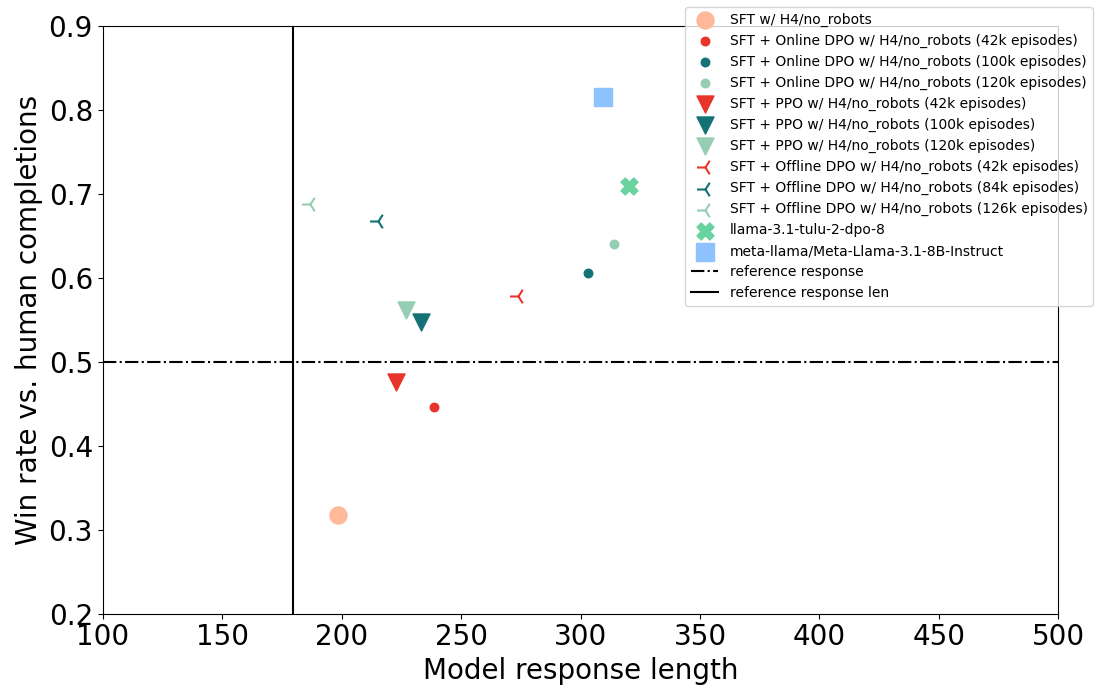
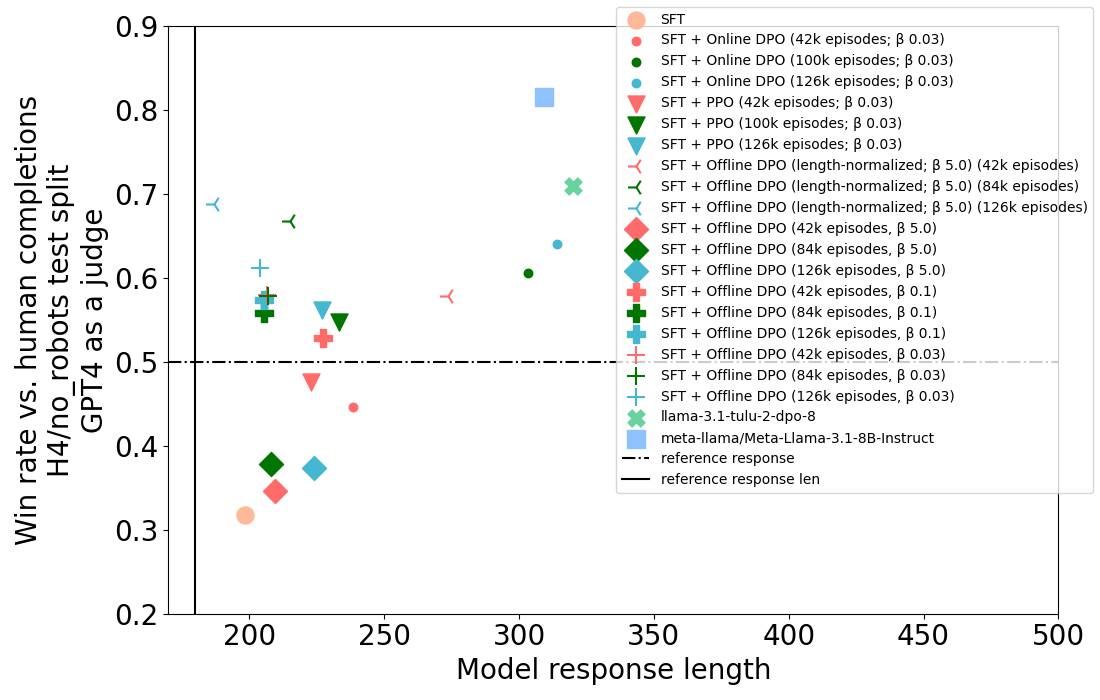
push changes

diff --git a/scripts/experimental/winrate/plot_winrate.py b/scripts/experimental/winrate/plot_winrate.py
@@ -13,16 +13,25 @@ class Data:
 
 # Data
 results = {
-    "SFT w/ H4/no_robots": Data({8e9: [0.318, 198.402]}, "#FFB898", "o"),
-    "SFT + Online DPO w/ H4/no_robots (42k episodes)": Data({8e9: [0.446, 238.528]}, "#E8352C", "."),
-    "SFT + Online DPO w/ H4/no_robots (100k episodes)": Data({8e9: [0.606, 303.176]}, "#147277", "."),
-    "SFT + Online DPO w/ H4/no_robots (120k episodes)": Data({8e9: [0.64, 314.074]}, "#96ceb4", "."),
-    "SFT + PPO w/ H4/no_robots (42k episodes)": Data({8e9: [0.476, 222.886]}, "#E8352C", "v"),
-    "SFT + PPO w/ H4/no_robots (100k episodes)": Data({8e9: [0.548, 233.058]}, "#147277", "v"),
-    "SFT + PPO w/ H4/no_robots (120k episodes)": Data({8e9: [0.562, 226.956]}, "#96ceb4", "v"),
-    "SFT + Offline DPO w/ H4/no_robots (42k episodes)": Data({8e9: [0.578, 273.732]}, "#E8352C", "3"),
-    "SFT + Offline DPO w/ H4/no_robots (84k episodes)": Data({8e9: [0.668, 215.136]}, "#147277", "3"),
-    "SFT + Offline DPO w/ H4/no_robots (126k episodes)": Data({8e9: [0.688, 186.848]}, "#96ceb4", "3"),
+    "SFT": Data({8e9: [0.318, 198.402]}, "#FFB898", "o"),
+    "SFT + Online DPO (42k episodes; β 0.03)": Data({8e9: [0.446, 238.528]}, "#FF6B6B", "."),
+    "SFT + Online DPO (100k episodes; β 0.03)": Data({8e9: [0.606, 303.176]}, "#007500", "."),
+    "SFT + Online DPO (126k episodes; β 0.03)": Data({8e9: [0.64, 314.074]}, "#45B7D1", "."),
+    "SFT + PPO (42k episodes; β 0.03)": Data({8e9: [0.476, 222.886]}, "#FF6B6B", "v"),
+    "SFT + PPO (100k episodes; β 0.03)": Data({8e9: [0.548, 233.058]}, "#007500", "v"),
+    "SFT + PPO (126k episodes; β 0.03)": Data({8e9: [0.562, 226.956]}, "#45B7D1", "v"),
+    "SFT + Offline DPO (length-normalized; β 5.0) (42k episodes)": Data({8e9: [0.578, 273.732]}, "#FF6B6B", "3"),
+    "SFT + Offline DPO (length-normalized; β 5.0) (84k episodes)": Data({8e9: [0.668, 215.136]}, "#007500", "3"),
+    "SFT + Offline DPO (length-normalized; β 5.0) (126k episodes)": Data({8e9: [0.688, 186.848]}, "#45B7D1", "3"),
+    "SFT + Offline DPO (42k episodes, β 5.0)": Data({8e9: [0.346, 209.43]}, "#FF6B6B", "D"),
+    "SFT + Offline DPO (84k episodes, β 5.0)": Data({8e9: [0.378, 208.1]}, "#007500", "D"),
+    "SFT + Offline DPO (126k episodes, β 5.0)": Data({8e9: [0.374, 223.876]}, "#45B7D1", "D"),
+    "SFT + Offline DPO (42k episodes, β 0.1)": Data({8e9: [0.528, 227.462]}, "#FF6B6B", "P"),
+    "SFT + Offline DPO (84k episodes, β 0.1)": Data({8e9: [0.558, 205.354]}, "#007500", "P"),
+    "SFT + Offline DPO (126k episodes, β 0.1)": Data({8e9: [0.574, 205.498]}, "#45B7D1", "P"),
+    "SFT + Offline DPO (42k episodes, β 0.03)": Data({8e9: [0.58, 206.512]}, "#FF6B6B", "+"),
+    "SFT + Offline DPO (84k episodes, β 0.03)": Data({8e9: [0.578, 207.07]}, "#007500", "+"),
+    "SFT + Offline DPO (126k episodes, β 0.03)": Data({8e9: [0.612, 204.078]}, "#45B7D1", "+"),
     "llama-3.1-tulu-2-dpo-8": Data({8e9: [0.71, 320.09]}, "#68D39F", "X"),
     "meta-llama/Meta-Llama-3.1-8B-Instruct": Data({8e9: [0.816, 309.322]}, "#8EC2FF", "s"),
 }
@@ -89,11 +98,11 @@ def create_winrate_vs_length_plot(filename):
     ax.set_xlabel("Model response length", fontsize=20)
     plt.axhline(y=0.5, color='black', linestyle='-.', label='reference response')
     plt.axvline(x=179.726, color='black', linestyle='-', label='reference response len')
-    ax.set_ylabel("Win rate vs. human completions", fontsize=20)
+    ax.set_ylabel("Win rate vs. human completions\nH4/no_robots test split\nGPT4 as a judge", fontsize=20)
     ax.tick_params(axis='both', which='major', labelsize=20)
 
     # Set reasonable axis limits
-    ax.set_xlim(100, 500)
+    ax.set_xlim(170, 500)
     ax.set_ylim(0.2, 0.9)
 
     # Adjust legend

diff --git a/scripts/experimental/winrate/plot_agreement_rate.py b/scripts/experimental/winrate/plot_agreement_rate.py
@@ -1,0 +1,47 @@
+import matplotlib.pyplot as plt
+import numpy as np
+
+# Data
+methods = [
+    'SFT + Offline DPO (length-normalized) (126k episodes)',
+    'SFT + Online DPO (126k episodes)',
+    'SFT + PPO (126k episodes)',
+]
+rm1_rates = [45.20, 56.20, 59.60]  # vwxyzjn/reward_modeling__allenai_open_instruct_dev
+rm2_rates = [61.20, 64.00, 63.40]  # allenai/llama-3-tulu-2-8b-uf-mean-rm
+
+x = np.arange(len(methods))  # the label locations
+width = 0.35  # the width of the bars
+
+fig, ax = plt.subplots(figsize=(12, 6))
+rects1 = ax.bar(x - width/2, rm1_rates, width, label='vwxyzjn/reward_modeling__allenai_open_instruct_dev', color='skyblue')
+rects2 = ax.bar(x + width/2, rm2_rates, width, label='allenai/llama-3-tulu-2-8b-uf-mean-rm', color='lightgreen')
+
+# Add some text for labels, title and custom x-axis tick labels, etc.
+ax.set_ylabel('Agreement Rate (%)', fontsize=12)
+ax.set_title('Agreement Rates w/ GPT 4 judgement for Different Reward Models and Training Methods', fontsize=14)
+ax.set_xticks(x)
+ax.set_xticklabels(methods)
+ax.legend()
+
+ax.set_ylim(0, 100)  # Set y-axis limit from 0 to 100%
+
+# Add value labels on top of each bar
+def autolabel(rects):
+    for rect in rects:
+        height = rect.get_height()
+        ax.annotate(f'{height:.2f}%',
+                    xy=(rect.get_x() + rect.get_width() / 2, height),
+                    xytext=(0, 3),  # 3 points vertical offset
+                    textcoords="offset points",
+                    ha='center', va='bottom')
+
+autolabel(rects1)
+autolabel(rects2)
+
+fig.tight_layout()
+
+plt.savefig('agreement_rates_comparison.png')
+plt.close()
+
+print("Plot saved as 'agreement_rates_comparison.png'")

diff --git a/scripts/experimental/winrate/readme.md b/scripts/experimental/winrate/readme.md
@@ -145,6 +145,107 @@ python -i generate_and_eval.py \
 # df['model_response_len'].mean()=186.848
 
 
+# https://wandb.ai/ai2-llm/open_instruct_internal/runs/9boxjt9g
+python -i generate_and_eval.py \
+    --model_name_or_path allenai/open_instruct_dev \
+    --model_revision costa_offline_dpo_norobot_3pair_1peoch_dpo__allenai_open_instruct_dev__42__1726598473 \
+    --n 500
+# preferred
+# response1    0.654
+# response0    0.346
+# Name: proportion, dtype: float64
+# df['model_response_len'].mean()=209.43
+
+# https://wandb.ai/ai2-llm/open_instruct_internal/runs/l3sx2vy3
+python -i generate_and_eval.py \
+    --model_name_or_path allenai/open_instruct_dev \
+    --model_revision costa_offline_dpo_norobot_3pair_2peoch_dpo__allenai_open_instruct_dev__42__1726598454 \
+    --n 500
+# preferred
+# response1    0.622
+# response0    0.378
+# Name: proportion, dtype: float64
+# df['model_response_len'].mean()=208.1
+
+# https://wandb.ai/ai2-llm/open_instruct_internal/runs/scc7ic9o
+python -i generate_and_eval.py \
+    --model_name_or_path allenai/open_instruct_dev \
+    --model_revision costa_offline_dpo_norobot_3pair_3peoch_dpo__allenai_open_instruct_dev__42__1726598454 \
+    --n 500
+# preferred
+# response1    0.626
+# response0    0.374
+# Name: proportion, dtype: float64
+# df['model_response_len'].mean()=223.876
+
+## beta 0.1
+# https://wandb.ai/ai2-llm/open_instruct_internal/runs/5ro3trre
+python generate_and_eval.py \
+    --model_name_or_path allenai/open_instruct_dev \
+    --model_revision costa_offline_dpo_norobot_3pair_1peoch_dpo_beta_0.1__allenai_open_instruct_dev__42__1726616746 \
+    --n 500
+# preferred
+# response0    0.528
+# response1    0.472
+# Name: proportion, dtype: float64
+# df['model_response_len'].mean()=227.462
+
+# https://wandb.ai/ai2-llm/open_instruct_internal/runs/jjudzmie
+python generate_and_eval.py \
+    --model_name_or_path allenai/open_instruct_dev \
+    --model_revision costa_offline_dpo_norobot_3pair_2peoch_dpo_beta_0.1__allenai_open_instruct_dev__42__1726624662 \
+    --n 500
+# preferred
+# response0    0.558
+# response1    0.442
+# Name: proportion, dtype: float64
+# df['model_response_len'].mean()=205.354
+
+# https://wandb.ai/ai2-llm/open_instruct_internal/runs/p1g5p9f1
+python generate_and_eval.py \
+    --model_name_or_path allenai/open_instruct_dev \
+    --model_revision costa_offline_dpo_norobot_3pair_3peoch_dpo_beta_0.1__allenai_open_instruct_dev__42__1726616662 \
+    --n 500
+# preferred
+# response0    0.574
+# response1    0.426
+# Name: proportion, dtype: float64
+# df['model_response_len'].mean()=205.498
+
+## beta 0.03
+# https://wandb.ai/ai2-llm/open_instruct_internal/runs/8hmgusle
+python generate_and_eval.py \
+    --model_name_or_path allenai/open_instruct_dev \
+    --model_revision costa_offline_dpo_norobot_3pair_1peoch_dpo_beta_0.03__allenai_open_instruct_dev__42__1726616748 \
+    --n 500
+# preferred
+# response0    0.58
+# response1    0.42
+# Name: proportion, dtype: float64
+# df['model_response_len'].mean()=206.512
+
+# https://wandb.ai/ai2-llm/open_instruct_internal/runs/i3a3oodn
+python generate_and_eval.py \
+    --model_name_or_path allenai/open_instruct_dev \
+    --model_revision costa_offline_dpo_norobot_3pair_2peoch_dpo_beta_0.03__allenai_open_instruct_dev__42__1726616747 \
+    --n 500
+# preferred
+# response0    0.578
+# response1    0.422
+# Name: proportion, dtype: float64
+# df['model_response_len'].mean()=207.07
+
+# https://wandb.ai/ai2-llm/open_instruct_internal/runs/r50e84fb
+python generate_and_eval.py \
+    --model_name_or_path allenai/open_instruct_dev \
+    --model_revision costa_offline_dpo_norobot_3pair_3peoch_dpo_beta_0.03__allenai_open_instruct_dev__42__1726624622 \
+    --n 500
+# preferred
+# response0    0.612
+# response1    0.388
+# Name: proportion, dtype: float64
+# df['model_response_len'].mean()=204.078
+
 python plot_winrate.py
 
 
@@ -202,4 +303,16 @@ python measure_agreement_rate.py \
     --input_path csvs/allenai/open_instruct_dev_costa_offline_dpo_norobot_3pair_3peoch__allenai_open_instruct_dev__42__1726354080_judged.csv \
     --n -1
 # count: 500, agreement_rate: 61.20%
+
+python measure_agreement_rate.py \
+    --reward_model_path allenai/llama-3-tulu-2-8b-uf-mean-rm \
+    --input_path csvs/vwxyzjn/online_dpo_vllm_thread_beta_0.03_episode_126000__allenai_open_instruct_dev_online_dpo_vllm_thread_beta_0.03_episode_126000__3__1726559254_judged.csv \
+    --n -1
+# count: 500, agreement_rate: 64.00%
+
+python measure_agreement_rate.py \
+    --reward_model_path allenai/llama-3-tulu-2-8b-uf-mean-rm \
+    --input_path csvs/vwxyzjn/ppo_vllm_thread_beta_0.03_episode_126000__allenai_open_instruct_dev_ppo_vllm_thread_beta_0.03_episode_126000__3__1726543993_judged.csv \
+    --n -1
+# count: 500, agreement_rate: 63.40%
 ```
